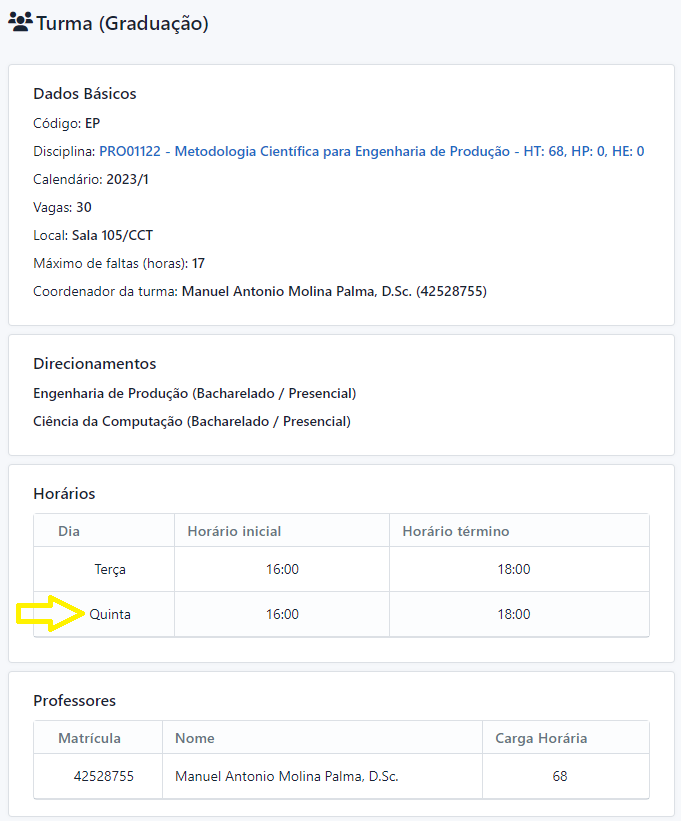
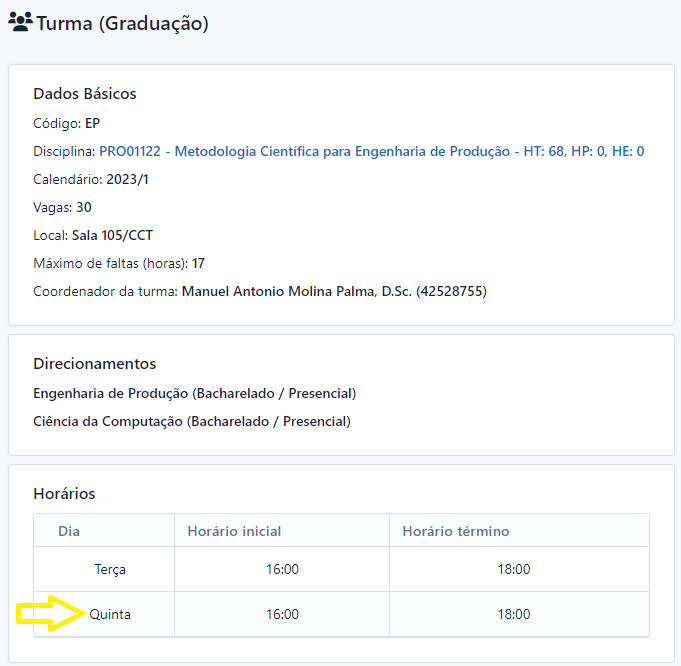
redução de imagens

diff --git a/Files/Outras monografias/202405 - João Vítor Fernandes Dias/Texto/LaTeX/files/tex/2.02!2-marco.tex b/Files/Outras monografias/202405 - João Vítor Fernandes Dias/Texto/LaTeX/files/tex/2.02!2-marco.tex
@@ -217,11 +217,11 @@ Conclui-se então que esforços para se criar formas grades horárias intuitivas
 Dada a grande quantidade de variáveis interconectadas e as características específicas de cada instituição \cite{miranda_udpskeduler_2012}, a organização destas informações buscando a melhor solução possível apresenta-se como um desafio. Principalmente se considerarmos que esta solução é, muitas vezes, buscada manualmente, estando também passível de erros humanos como ilustram a \autoref{fig:Academico} e \autoref{fig:CCT}.
 
 \begin{MyCenteredFigure} \caption{Disciplina atribuída no sistema acadêmico à determinada hora e local} \label{fig:Academico}
-  \includegraphics[width=\textwidth]{files/img/2.02!2-marco/Metodologia-Quinta}
+  \includegraphics[width=0.8\textwidth]{files/img/2.02!2-marco/Metodologia-Quinta}
 \end{MyCenteredFigure}
 
 \begin{MyCenteredFigure} \caption{Falha de alocação na grade horária do CCT de 2023.1} \label{fig:CCT}
-  \includegraphics[width=\textwidth]{files/img/2.02!2-marco/Aulas-CCT-105-2023_1}
+  \includegraphics[width=0.8\textwidth]{files/img/2.02!2-marco/Aulas-CCT-105-2023_1}
 \end{MyCenteredFigure}
 
 Nestas imagens, fica exemplificado um dos possíveis problemas que podem ocorrer durante a criação de grades horárias, que é, mesmo quando uma seção da universidade (o Sistema Acadêmico, ilustrado pela \autoref{fig:Academico}) aloca uma turma a uma determinada sala, outra seção da mesma instituição (o Centro de Ciência e Tecnologia, ilustrado pela \autoref{fig:CCT}) pode não estar ciente do mesmo, ou, mesmo estando ciente, pode acabar não delimitando aquela lacuna de tempo como ocupada, assim estando passível de uma segunda alocação naquele período de tempo naquela sala, assim gerando problemas.
